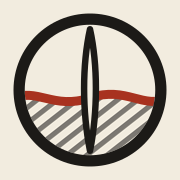
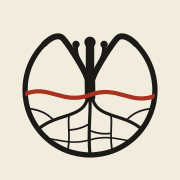
New Ecotone mark: coral fungus whose branches become the rim
A coral fungus rises above a cinnabar tide line, its outer branches
curling up into the roundel's rim, with mycelial threads below. Updates
the header/footer symbol, the favicon (simplified for 16px) and the
180px Apple touch icon.

diff --git a/src/components/EngraveDefs.tsx b/src/components/EngraveDefs.tsx
@@ -217,17 +217,31 @@ export default function EngraveDefs() {
         {/* ── fungi: the species library (components/fungi/library) as <symbol id="fungus-<species>"> ── */}
         <FungusSymbols />
 
-        {/* ── brand mark: a lens with a tide line and a propagule ── */}
+        {/* ── brand mark: a coral fungus on the tide line whose outer branches curl out into
+             the rim; below the waterline its trunk runs on as mycelial threads. Ink is
+             currentColor only (no paper fills), so it works on any ground. ── */}
         <symbol id="mark" viewBox="0 0 40 40">
-          <circle cx="20" cy="20" r="18.5" fill="none" stroke="currentColor" strokeWidth="1.1" />
-          <circle cx="20" cy="20" r="16" fill="none" stroke="currentColor" strokeWidth=".4" />
           <clipPath id="mark-clip">
-            <circle cx="20" cy="20" r="15.6" />
+            <circle cx="20" cy="20" r="18.5" />
           </clipPath>
-          <g clipPath="url(#mark-clip)">
-            <path d="M2 22C8 19 12 25 20 22C28 19 32 25 38 22L38 40L2 40Z" fill="url(#hatch)" />
-            <path d="M2 22C8 19 12 25 20 22C28 19 32 25 38 22" fill="none" stroke="#A8321F" strokeWidth="1" />
-            <path d="M20 6C18.6 14 18.6 24 20 33C21.4 24 21.4 14 20 6Z" fill="#F2ECDF" stroke="currentColor" strokeWidth=".8" />
+          <g fill="none" stroke="currentColor" strokeLinecap="round" strokeLinejoin="round">
+            <path d="M6.92 6.92A18.5 18.5 0 1 0 33.08 6.92" strokeWidth="1.5" />
+            <path d="M19.2 16.6C18.2 13.6 13.3 6.2 12.2 5.2C10.9 4.05 8.9 4.95 6.92 6.92" strokeWidth="1.7" />
+            <path d="M20.8 16.6C21.8 13.6 26.7 6.2 27.8 5.2C29.1 4.05 31.1 4.95 33.08 6.92" strokeWidth="1.7" />
+            <path d="M20 22C20.1 20 19.9 18.4 20 16.4V7.4" strokeWidth="2.4" />
+            <path d="M20 22C20.1 20 19.9 18.4 20 15.6" strokeWidth="3" />
+            <path d="M16.6 11.2C16 9.8 15.8 8.6 16 7.4M23.4 11.2C24 9.8 24.2 8.6 24 7.4" strokeWidth="1.3" />
+          </g>
+          <g fill="currentColor">
+            <circle cx="20" cy="6.4" r="1.6" />
+            <circle cx="16" cy="7" r="1.05" />
+            <circle cx="24" cy="7" r="1.05" />
+          </g>
+          <g clipPath="url(#mark-clip)" fill="none" strokeLinecap="round" strokeLinejoin="round">
+            <path d="M2 34.4C8 32 12.4 36.4 20 34.2C27.6 32 32 36.4 38 34.2" stroke="currentColor" strokeWidth=".45" />
+            <path d="M19.3 22.2C18.6 26.6 13.6 27 9.6 28.6C6 30 3.4 32.4 1.6 35.6M20.7 22.2C21.4 26.6 26.4 27 30.4 28.6C34 30 36.6 32.4 38.4 35.6M20 22.6C20.2 27.2 19.4 31 20 39" stroke="currentColor" strokeWidth=".9" />
+            <path d="M9.6 28.6C7.6 26.4 5 25.4 1.4 25.2M30.4 28.6C32.4 26.4 35 25.4 38.6 25.2M14 27.4C13.6 30.4 14.6 33.6 13.4 38.6M26 27.4C26.4 30.4 25.4 33.6 26.6 38.6M20 29.6C17.8 30.8 16.4 31.2 14.2 31.4M20 31.6C22.2 32.4 23.8 32.6 25.6 32.4" stroke="currentColor" strokeWidth=".5" />
+            <path d="M1 21.4C8 18 12 24.4 20 21.4C28 18.4 32 24.8 39 21.4" stroke="#A8321F" strokeWidth="1.2" />
           </g>
         </symbol>
       </defs>
